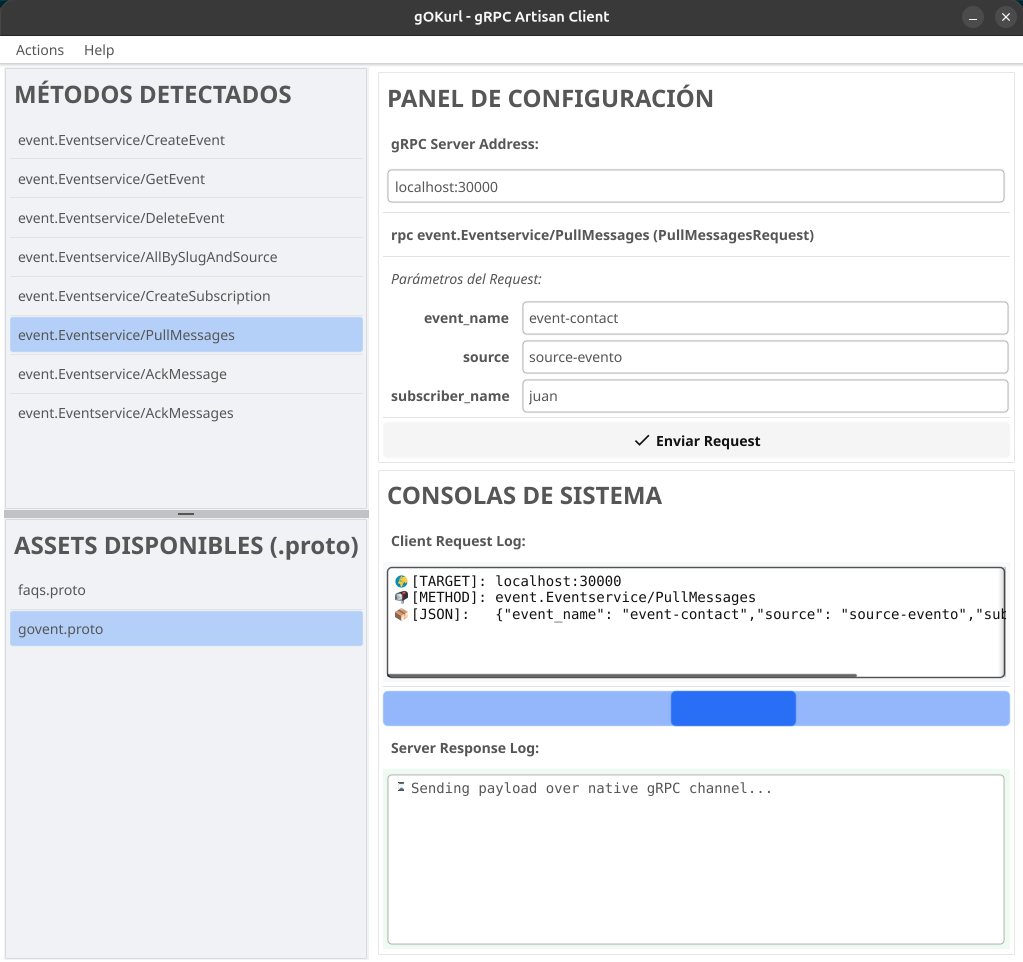
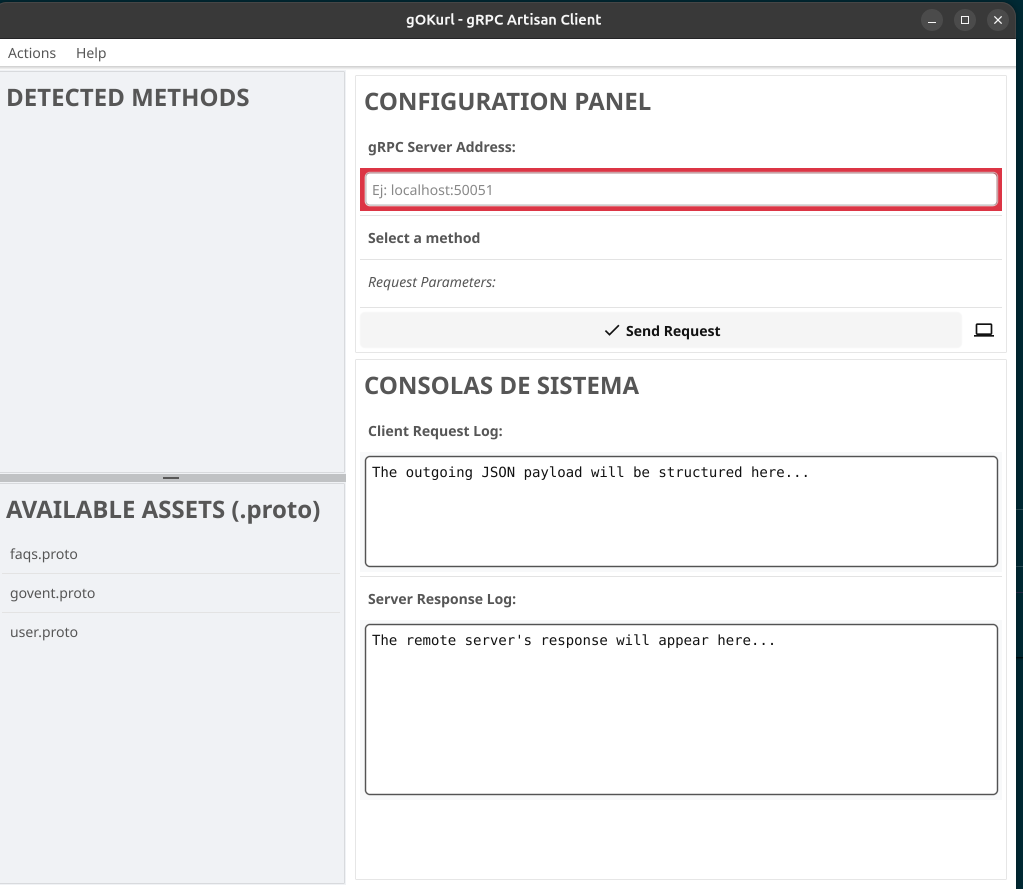
docs: README

Changed region(s): [[0.0, 0.0, 1.0, 1.0], [0.0303, 0.1822, 0.2727, 0.2733], [0.0303, 0.4252, 0.2424, 0.4556]]

diff --git a/main.go b/main.go
@@ -96,7 +96,7 @@ func main() {
 	w.SetFixedSize(false)
 
 	if err := os.MkdirAll(assetsDir, os.ModePerm); err != nil {
-		fmt.Println("Error creando directorio assets:", err)
+		fmt.Println("Error creating assets directory:", err)
 	}
 
 	methodListData := []ProtoMethod{}
@@ -109,7 +109,7 @@ func main() {
 	var methodSelected bool
 
 	serverAddressInput := widget.NewEntry()
-	serverAddressInput.SetPlaceHolder("Ej: localhost:50051")
+	serverAddressInput.SetPlaceHolder("E.g: localhost:50051")
 
 	inputBorderBg := canvas.NewRectangle(colorBorderRed)
 	inputBorderBg.SetMinSize(fyne.Size{Width: 0, Height: 42})
@@ -530,7 +530,7 @@ func main() {
 		widget.NewLabelWithStyle("Server Response Log:", fyne.TextAlignLeading, fyne.TextStyle{Bold: true}),
 		resScroll,
 	)
-	logsCard := widget.NewCard("CONSOLAS DE SISTEMA", "", logsContent)
+	logsCard := widget.NewCard("SYSTEM CONSOLES", "", logsContent)
 
 	rightLayout := container.NewBorder(controlCard, nil, nil, nil, logsCard)
 	mainLayout := container.NewBorder(nil, nil, sidebarWrapper, nil, container.NewPadded(rightLayout))

diff --git a/README.md b/README.md
@@ -17,6 +17,8 @@
   <img src="capture1.png" alt="gOKurl Main Interface" width="800">
   <br><br>
   <img src="capture2.png" alt="gOKurl Execution Log" width="800">
+  <br><br>
+  <img src="capture3.png" alt="gOKurl grpcurl command export" width="800">
 </p>
 
 ---
@@ -36,12 +38,12 @@
 
 ```text
  _____________________________________________________________________
-|  MÉTODOS DETECTADOS        |  PANEL DE CONFIGURACIÓN                |
+|  DETECTED METHODS          |  CONFIGURATION PANEL                   |
 |  - service.Method1         |  [ Host: localhost:50051            ]  |
 |  - service.Method2         |                                        |
-|____________________________|  Parámetros del Request:               |
-|  ASSETS DISPONIBLES        |  [ Field A: Type                     ]  |
-|  - api.proto               |  [ Button: Enviar Request 🚀         ]  |
+|____________________________|  Request Parameters:                   |
+|  AVAILABLE ASSETS          |  [ Field A: Type                     ]  |
+|  - api.proto               |  [ Button: Send Request 🚀           ]  |
 |  - health.proto            |________________________________________|
 |                            |  Client Request Log (Monospace Slate)  |
 |                            |  [==== Loader Bar ====]                |